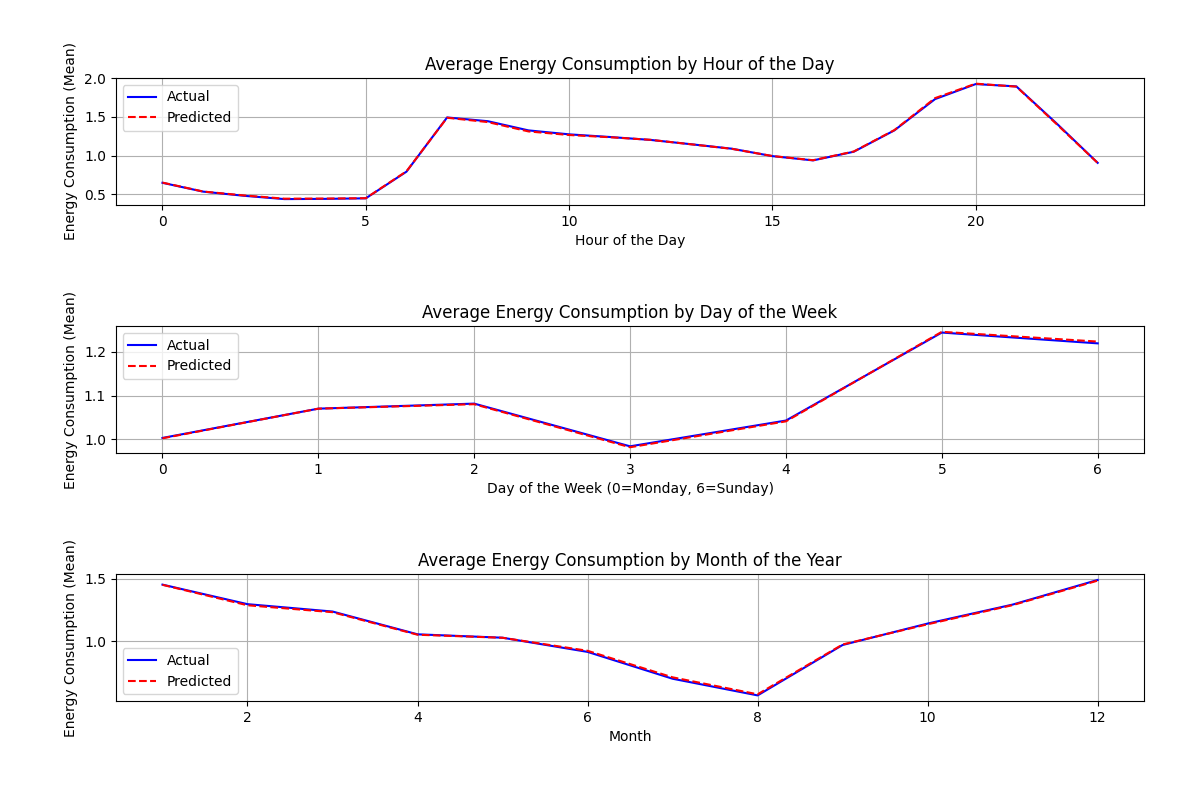
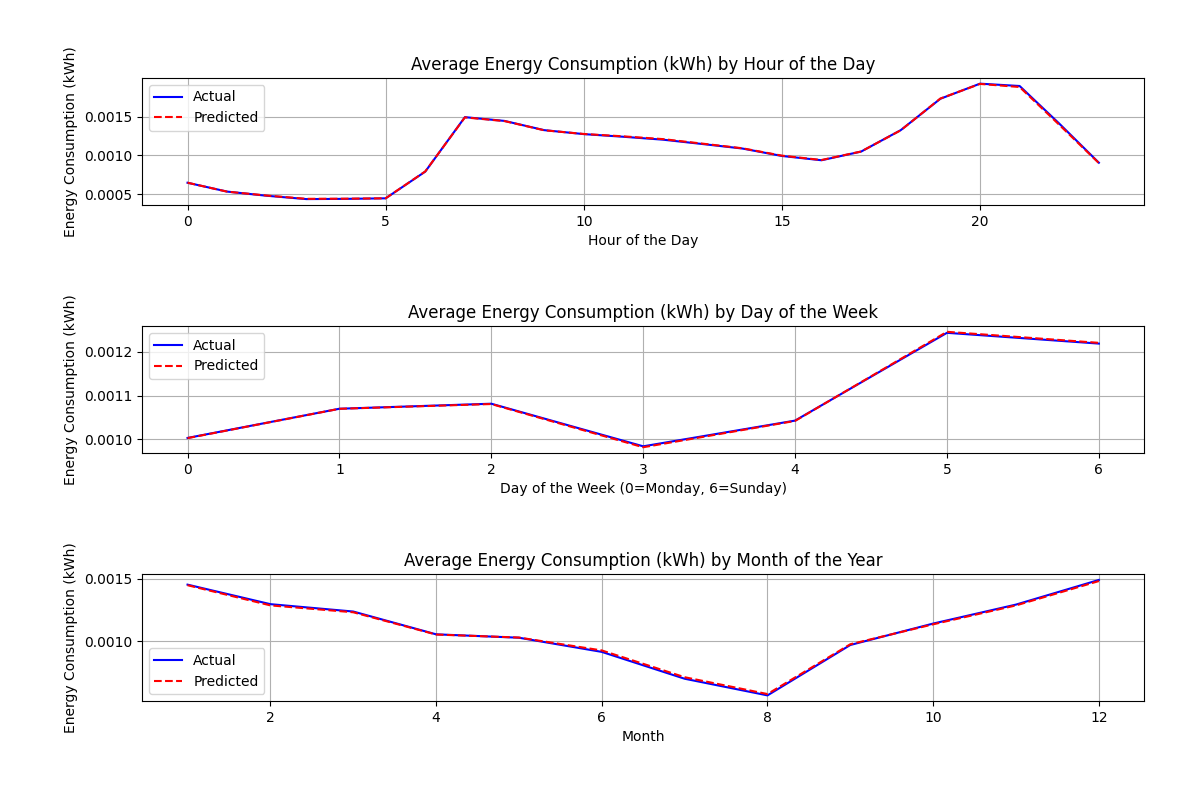
Retrained the model having an idealistic load in Watt-hour

diff --git a/scripts/LINEAR/training/predicted_power_stats.py b/scripts/LINEAR/training/predicted_power_stats.py
@@ -12,6 +12,10 @@ def generate_power_statistics(predictions_csv, output_dir):
     """
     # Load the predictions
     data = pd.read_csv(predictions_csv, index_col='Datetime', parse_dates=True)
+
+    # Convert from Wh to kWh for better readability in plots
+    data['Actual_kWh'] = data['Actual'] / 1000.0
+    data['Predicted_kWh'] = data['Predicted'] / 1000.0
     
     # Extract relevant time features
     data['Hour'] = data.index.hour
@@ -20,22 +24,22 @@ def generate_power_statistics(predictions_csv, output_dir):
     
     # Aggregate power predictions by hour of the day
     hourly_stats = data.groupby('Hour').agg({
-        'Actual': ['mean', 'sum'],
-        'Predicted': ['mean', 'sum']
+        'Actual_kWh': ['mean', 'sum'],
+        'Predicted_kWh': ['mean', 'sum']
     })
     hourly_stats.columns = ['_'.join(col) for col in hourly_stats.columns]
     
     # Aggregate power predictions by day of the week
     daily_stats = data.groupby('DayOfWeek').agg({
-        'Actual': ['mean', 'sum'],
-        'Predicted': ['mean', 'sum']
+        'Actual_kWh': ['mean', 'sum'],
+        'Predicted_kWh': ['mean', 'sum']
     })
     daily_stats.columns = ['_'.join(col) for col in daily_stats.columns]
     
     # Aggregate power predictions by month of the year
     monthly_stats = data.groupby('Month').agg({
-        'Actual': ['mean', 'sum'],
-        'Predicted': ['mean', 'sum']
+        'Actual_kWh': ['mean', 'sum'],
+        'Predicted_kWh': ['mean', 'sum']
     })
     monthly_stats.columns = ['_'.join(col) for col in monthly_stats.columns]
     
@@ -58,8 +62,8 @@ def generate_power_statistics(predictions_csv, output_dir):
 
     # Plot hourly power statistics
     plt.subplot(3, 1, 1)
-    plt.plot(hourly_stats.index, hourly_stats['Actual_mean'], label='Actual Power', color='blue')
-    plt.plot(hourly_stats.index, hourly_stats['Predicted_mean'], label='Predicted Power', color='red', linestyle='--')
+    plt.plot(hourly_stats.index, hourly_stats['Actual_kWh_mean'], label='Actual Power', color='blue')
+    plt.plot(hourly_stats.index, hourly_stats['Predicted_kWh_mean'], label='Predicted Power', color='red', linestyle='--')
     plt.title('Average Power Consumption by Hour of the Day')
     plt.xlabel('Hour of the Day')
     plt.ylabel('Power Consumption (kWh)')
@@ -68,8 +72,8 @@ def generate_power_statistics(predictions_csv, output_dir):
     
     # Plot daily power statistics
     plt.subplot(3, 1, 2)
-    plt.plot(daily_stats.index, daily_stats['Actual_mean'], label='Actual Power', color='blue')
-    plt.plot(daily_stats.index, daily_stats['Predicted_mean'], label='Predicted Power', color='red', linestyle='--')
+    plt.plot(daily_stats.index, daily_stats['Actual_kWh_mean'], label='Actual Power', color='blue')
+    plt.plot(daily_stats.index, daily_stats['Predicted_kWh_mean'], label='Predicted Power', color='red', linestyle='--')
     plt.title('Average Power Consumption by Day of the Week')
     plt.xlabel('Day of the Week (0=Monday, 6=Sunday)')
     plt.ylabel('Power Consumption (kWh)')
@@ -78,8 +82,8 @@ def generate_power_statistics(predictions_csv, output_dir):
     
     # Plot monthly power statistics
     plt.subplot(3, 1, 3)
-    plt.plot(monthly_stats.index, monthly_stats['Actual_mean'], label='Actual Power', color='blue')
-    plt.plot(monthly_stats.index, monthly_stats['Predicted_mean'], label='Predicted Power', color='red', linestyle='--')
+    plt.plot(monthly_stats.index, monthly_stats['Actual_kWh_mean'], label='Actual Power', color='blue')
+    plt.plot(monthly_stats.index, monthly_stats['Predicted_kWh_mean'], label='Predicted Power', color='red', linestyle='--')
     plt.title('Average Power Consumption by Month of the Year')
     plt.xlabel('Month')
     plt.ylabel('Power Consumption (kWh)')
@@ -94,7 +98,7 @@ def generate_power_statistics(predictions_csv, output_dir):
 if __name__ == "__main__":
     # Define file paths
     predictions_file = r'C:\Users\BezylMophatOtieno\source\repos\household_power_consumption_predictive_analysis\scripts\LINEAR\training\outputs\data\model_predictions.csv'
-    output_directory = r'C:\Users\BezylMophatOtieno\source\repos\household_power_consumption_predictive_analysis\scripts\LINEAR\training\outputs\power_statistics'
+    output_directory = r'C:\Users\BezylMophatOtieno\source\repos\household_power_consumption_predictive_analysis\scripts\LINEAR\training\outputs\plots\power_statistics'
     
     # Generate power statistics and plots
     generate_power_statistics(predictions_file, output_directory)

diff --git a/scripts/LINEAR/training/evaluate_model.py b/scripts/LINEAR/training/evaluate_model.py
@@ -1,11 +1,44 @@
-# evaluate_model.py
-
 import pandas as pd
 import numpy as np
 import os
 import joblib
 from sklearn.metrics import mean_absolute_error, mean_squared_error, r2_score
 import matplotlib.pyplot as plt
+
+# Constants for file paths
+MODEL_FILE = r'C:\Users\BezylMophatOtieno\source\repos\household_power_consumption_predictive_analysis\scripts\LINEAR\training\outputs\model\linear_regression_model.pkl'
+PREDICTIONS_FILE = r'C:\Users\BezylMophatOtieno\source\repos\household_power_consumption_predictive_analysis\scripts\LINEAR\training\outputs\data\model_predictions.csv'
+EVALUATION_FILE = r'C:\Users\BezylMophatOtieno\source\repos\household_power_consumption_predictive_analysis\scripts\LINEAR\training\outputs\data\evaluation_metrics.txt'
+AVERAGE_VALUES_FILE = r'C:\Users\BezylMophatOtieno\source\repos\household_power_consumption_predictive_analysis\scripts\LINEAR\testing\predictions\average_values.csv'
+
+def calculate_and_save_average_values(X_test_csv):
+    """
+    Calculate and save the average values for Current, Voltage, and Load(Wh) from the test data.
+    
+    :param X_test_csv: Path to the CSV file containing the test features
+    :return: None
+    """
+    X_test = pd.read_csv(X_test_csv, index_col='Datetime')
+    
+    averages = {
+        'Average_Current': X_test['Current'].mean(),
+        'Average_Voltage': X_test['Voltage'].mean(),
+        'Average_Load(Wh)': X_test['Load(Wh)'].mean()
+    }
+    
+    avg_df = pd.DataFrame([averages])
+    avg_df.to_csv(AVERAGE_VALUES_FILE, index=False)
+    print(f"Average values have been saved to {AVERAGE_VALUES_FILE}")
+
+def load_average_values():
+    """
+    Load the average values for Current, Voltage, and Load(Wh) from the saved file.
+    
+    :return: Dictionary with average values
+    """
+    avg_df = pd.read_csv(AVERAGE_VALUES_FILE)
+    averages = avg_df.iloc[0].to_dict()
+    return averages
 
 def evaluate_model(X_test_csv, y_test_csv, model_file, predictions_file, evaluation_file):
     """
@@ -20,12 +53,13 @@ def evaluate_model(X_test_csv, y_test_csv, model_file, predictions_file, evaluat
     """
     # Load the test data
     X_test = pd.read_csv(X_test_csv, index_col='Datetime')
-    y_test = pd.read_csv(y_test_csv, index_col='Datetime')
+    y_test = pd.read_csv(y_test_csv, index_col='Datetime').squeeze() # Convert DataFrame to Series if it has only one column
     
-    y_test = y_test.squeeze() # Convert DataFrame to Series if it has only one column
-
     # Load the trained model
     model = joblib.load(model_file)
+    
+    # Load average values
+    averages = load_average_values()
     
     # Make predictions
     y_pred = model.predict(X_test)
@@ -55,9 +89,9 @@ if __name__ == "__main__":
     # Define file paths
     X_test_file = r'C:\Users\BezylMophatOtieno\source\repos\household_power_consumption_predictive_analysis\scripts\LINEAR\training\outputs\data\X_test.csv'
     y_test_file = r'C:\Users\BezylMophatOtieno\source\repos\household_power_consumption_predictive_analysis\scripts\LINEAR\training\outputs\data\y_test.csv'
-    model_file = r'C:\Users\BezylMophatOtieno\source\repos\household_power_consumption_predictive_analysis\scripts\LINEAR\training\outputs\model\linear_regression_model.pkl'
-    predictions_file = r'C:\Users\BezylMophatOtieno\source\repos\household_power_consumption_predictive_analysis\scripts\LINEAR\training\outputs\data\model_predictions.csv'
-    evaluation_file = r'C:\Users\BezylMophatOtieno\source\repos\household_power_consumption_predictive_analysis\scripts\LINEAR\training\outputs\data\evaluation_metrics.txt'
+    
+    # Calculate and save average values
+    calculate_and_save_average_values(X_test_file)
     
     # Evaluate the model
-    evaluate_model(X_test_file, y_test_file, model_file, predictions_file, evaluation_file)
+    evaluate_model(X_test_file, y_test_file, MODEL_FILE, PREDICTIONS_FILE, EVALUATION_FILE)

diff --git a/scripts/LINEAR/training/predicted_data_analysis.py b/scripts/LINEAR/training/predicted_data_analysis.py
@@ -18,24 +18,28 @@ def generate_statistics(predictions_csv, output_dir):
     data['DayOfWeek'] = data.index.dayofweek
     data['Month'] = data.index.month
     
+    # Convert from Wh to kWh for better readability in plots
+    data['Actual_kWh'] = data['Actual'] / 1000.0
+    data['Predicted_kWh'] = data['Predicted'] / 1000.0
+    
     # Aggregate predictions by hour of the day
     hourly_stats = data.groupby('Hour').agg({
-        'Actual': ['mean', 'sum'],
-        'Predicted': ['mean', 'sum']
+        'Actual_kWh': ['mean', 'sum'],
+        'Predicted_kWh': ['mean', 'sum']
     })
     hourly_stats.columns = ['_'.join(col) for col in hourly_stats.columns]
     
     # Aggregate predictions by day of the week
     daily_stats = data.groupby('DayOfWeek').agg({
-        'Actual': ['mean', 'sum'],
-        'Predicted': ['mean', 'sum']
+        'Actual_kWh': ['mean', 'sum'],
+        'Predicted_kWh': ['mean', 'sum']
     })
     daily_stats.columns = ['_'.join(col) for col in daily_stats.columns]
     
     # Aggregate predictions by month of the year
     monthly_stats = data.groupby('Month').agg({
-        'Actual': ['mean', 'sum'],
-        'Predicted': ['mean', 'sum']
+        'Actual_kWh': ['mean', 'sum'],
+        'Predicted_kWh': ['mean', 'sum']
     })
     monthly_stats.columns = ['_'.join(col) for col in monthly_stats.columns]
     
@@ -58,31 +62,31 @@ def generate_statistics(predictions_csv, output_dir):
 
     # Plot hourly statistics
     plt.subplot(3, 1, 1)
-    plt.plot(hourly_stats.index, hourly_stats['Actual_mean'], label='Actual', color='blue')
-    plt.plot(hourly_stats.index, hourly_stats['Predicted_mean'], label='Predicted', color='red', linestyle='--')
-    plt.title('Average Energy Consumption by Hour of the Day')
+    plt.plot(hourly_stats.index, hourly_stats['Actual_kWh_mean'], label='Actual', color='blue')
+    plt.plot(hourly_stats.index, hourly_stats['Predicted_kWh_mean'], label='Predicted', color='red', linestyle='--')
+    plt.title('Average Energy Consumption (kWh) by Hour of the Day')
     plt.xlabel('Hour of the Day')
-    plt.ylabel('Energy Consumption (Mean)')
+    plt.ylabel('Energy Consumption (kWh)')
     plt.legend()
     plt.grid(True)
     
     # Plot daily statistics
     plt.subplot(3, 1, 2)
-    plt.plot(daily_stats.index, daily_stats['Actual_mean'], label='Actual', color='blue')
-    plt.plot(daily_stats.index, daily_stats['Predicted_mean'], label='Predicted', color='red', linestyle='--')
-    plt.title('Average Energy Consumption by Day of the Week')
+    plt.plot(daily_stats.index, daily_stats['Actual_kWh_mean'], label='Actual', color='blue')
+    plt.plot(daily_stats.index, daily_stats['Predicted_kWh_mean'], label='Predicted', color='red', linestyle='--')
+    plt.title('Average Energy Consumption (kWh) by Day of the Week')
     plt.xlabel('Day of the Week (0=Monday, 6=Sunday)')
-    plt.ylabel('Energy Consumption (Mean)')
+    plt.ylabel('Energy Consumption (kWh)')
     plt.legend()
     plt.grid(True)
     
     # Plot monthly statistics
     plt.subplot(3, 1, 3)
-    plt.plot(monthly_stats.index, monthly_stats['Actual_mean'], label='Actual', color='blue')
-    plt.plot(monthly_stats.index, monthly_stats['Predicted_mean'], label='Predicted', color='red', linestyle='--')
-    plt.title('Average Energy Consumption by Month of the Year')
+    plt.plot(monthly_stats.index, monthly_stats['Actual_kWh_mean'], label='Actual', color='blue')
+    plt.plot(monthly_stats.index, monthly_stats['Predicted_kWh_mean'], label='Predicted', color='red', linestyle='--')
+    plt.title('Average Energy Consumption (kWh) by Month of the Year')
     plt.xlabel('Month')
-    plt.ylabel('Energy Consumption (Mean)')
+    plt.ylabel('Energy Consumption (kWh)')
     plt.legend()
     plt.grid(True)
     

diff --git a/scripts/LINEAR/training/predicted_price_stats.py b/scripts/LINEAR/training/predicted_price_stats.py
@@ -11,12 +11,24 @@ def generate_price_predictions(predictions_csv, output_dir, price_per_kwh):
     :param price_per_kwh: The price per kWh (in KSH) to use for calculating costs
     :return: None
     """
+    # Check if the CSV file exists
+    if not os.path.exists(predictions_csv):
+        raise FileNotFoundError(f"CSV file not found: {predictions_csv}")
+    
     # Load the predictions
     data = pd.read_csv(predictions_csv, index_col='Datetime', parse_dates=True)
     
+    # Check if the expected columns are present
+    if 'Actual' not in data.columns or 'Predicted' not in data.columns:
+        raise ValueError("CSV file must contain 'Actual' and 'Predicted' columns.")
+    
+    # Convert from Wh to kWh for better readability in plots
+    data['Actual_kWh'] = data['Actual'] / 1000.0
+    data['Predicted_kWh'] = data['Predicted'] / 1000.0
+    
     # Calculate actual and predicted prices using the constant price per kWh
-    data['Actual_Cost'] = data['Actual'] * price_per_kwh
-    data['Predicted_Cost'] = data['Predicted'] * price_per_kwh
+    data['Actual_Cost'] = data['Actual_kWh'] * price_per_kwh
+    data['Predicted_Cost'] = data['Predicted_kWh'] * price_per_kwh
     
     # Extract relevant time features
     data['Hour'] = data.index.hour
@@ -105,7 +117,7 @@ def generate_price_predictions(predictions_csv, output_dir, price_per_kwh):
 if __name__ == "__main__":
     # Define file paths
     predictions_file = r'C:\Users\BezylMophatOtieno\source\repos\household_power_consumption_predictive_analysis\scripts\LINEAR\training\outputs\data\model_predictions.csv'
-    output_directory = r'C:\Users\BezylMophatOtieno\source\repos\household_power_consumption_predictive_analysis\scripts\LINEAR\training\outputs\price_statistics'
+    output_directory = r'C:\Users\BezylMophatOtieno\source\repos\household_power_consumption_predictive_analysis\scripts\LINEAR\training\outputs\plots\price_statistics'
     
     # Set price per kWh
     price_per_kwh = 23.25  # KSH per kWh

diff --git a/scripts/LINEAR/training/data_collection/exploratory_data_analysis.py b/scripts/LINEAR/training/data_collection/exploratory_data_analysis.py
@@ -16,9 +16,6 @@ def perform_eda(input_csv, output_dir):
     # Load the preprocessed data
     data = pd.read_csv(input_csv, index_col='Datetime', parse_dates=['Datetime'])
     
-    # Convert non-numeric values to NaN
-    data.replace('?', pd.NA, inplace=True)
-    
     # Convert all columns to numeric types, errors='coerce' will turn non-numeric values into NaN
     data = data.apply(pd.to_numeric, errors='coerce')
     
@@ -48,16 +45,15 @@ def perform_eda(input_csv, output_dir):
     plt.savefig(os.path.join(output_dir, 'current_over_time.png'))
     plt.close()
     
-    # Plotting Load - Kitchen and Laundry over time
+    # Plotting Load (Sub_metering_3) over time
     plt.figure(figsize=(12, 6))
-    plt.plot(data.index, data['Load_1'], label='Load - 1', color='red')
-    plt.plot(data.index, data['Load_2'], label='Load - 2', color='orange')
+    plt.plot(data.index, data['Load(Wh)'], label='Load (Wh)', color='orange')
     plt.xlabel('Datetime')
     plt.ylabel('Load (Wh)')
-    plt.title('Load - 1 and 2 over Time')
+    plt.title('Load (Wh) over Time')
     plt.legend()
     plt.grid(True)
-    plt.savefig(os.path.join(output_dir, 'loads_over_time.png'))
+    plt.savefig(os.path.join(output_dir, 'load_over_time.png'))
     plt.close()
 
     # Correlation matrix

diff --git a/scripts/LINEAR/testing/index.py b/scripts/LINEAR/testing/index.py
@@ -8,7 +8,7 @@ import os
 MODEL_PATH = r'C:\Users\BezylMophatOtieno\source\repos\household_power_consumption_predictive_analysis\scripts\LINEAR\training\outputs\model\linear_regression_model.pkl'
 OUTPUT_DIR = r'C:\Users\BezylMophatOtieno\source\repos\household_power_consumption_predictive_analysis\scripts\LINEAR\training\outputs\plots\power_statistics'
 RESULTS_PATH = r'C:\Users\BezylMophatOtieno\source\repos\household_power_consumption_predictive_analysis\scripts\LINEAR\testing\predictions\predicted_costs_with_statistics.csv'
-AVERAGE_VALUES_FILE = r'C:\Users\BezylMophatOtieno\source\repos\household_power_consumption_predictive_analysis\scripts\LINEAR\training\outputs\data\average_values.csv'
+AVERAGE_VALUES_FILE = r'C:\Users\BezylMophatOtieno\source\repos\household_power_consumption_predictive_analysis\scripts\LINEAR\testing\predictions\average_values.csv'
 
 def get_user_input():
     """

diff --git a/scripts/LINEAR/training/data_collection/data_preprocessing.py b/scripts/LINEAR/training/data_collection/data_preprocessing.py
@@ -23,15 +23,14 @@ def preprocess_data(input_csv, output_dir, file_name):
     data.set_index('Datetime', inplace=True)
     
     # Drop the original Global_reactive_power, Sub_metering_3, Date, and Time columns
-    data.drop(['Date', 'Time', 'Global_reactive_power', 'Sub_metering_3'], axis=1, inplace=True)
+    data.drop(['Date', 'Time', 'Global_reactive_power', 'Sub_metering_1' , 'Sub_metering_2'], axis=1, inplace=True)
     
     # Rename columns to simpler names
     data.rename(columns={
         'Global_active_power': 'Power',
         'Voltage': 'Voltage',
         'Global_intensity': 'Current',
-        'Sub_metering_1': 'Load_1',
-        'Sub_metering_2': 'Load_2',
+        'Sub_metering_3': 'Load(Wh)',
     }, inplace=True)
     
     # Handle non-numeric values by converting all columns to numeric and coercing errors

diff --git a/scripts/LINEAR/training/data_preparation/data_splitting.py b/scripts/LINEAR/training/data_preparation/data_splitting.py
@@ -16,7 +16,7 @@ def prepare_data(input_csv, output_dir):
     data = pd.read_csv(input_csv, index_col='Datetime', parse_dates=['Datetime'])
     
     # Define the features and target variable
-    features = ['Current', 'Voltage', 'Load_1', 'Load_2']
+    features = ['Current', 'Voltage', 'Load(Wh)']
     target = 'Power'
     
     X = data[features]
